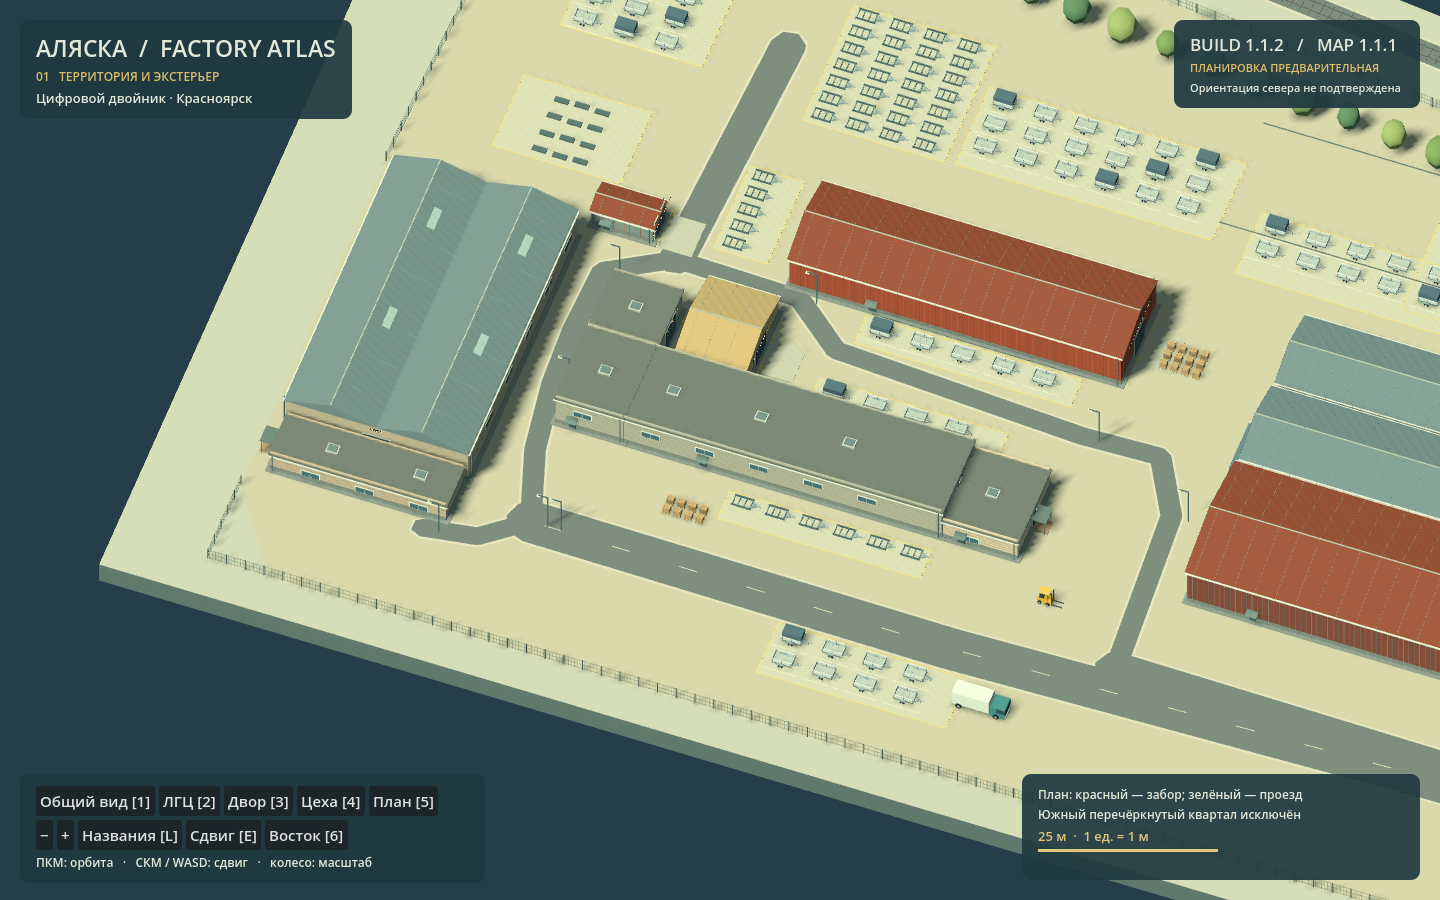
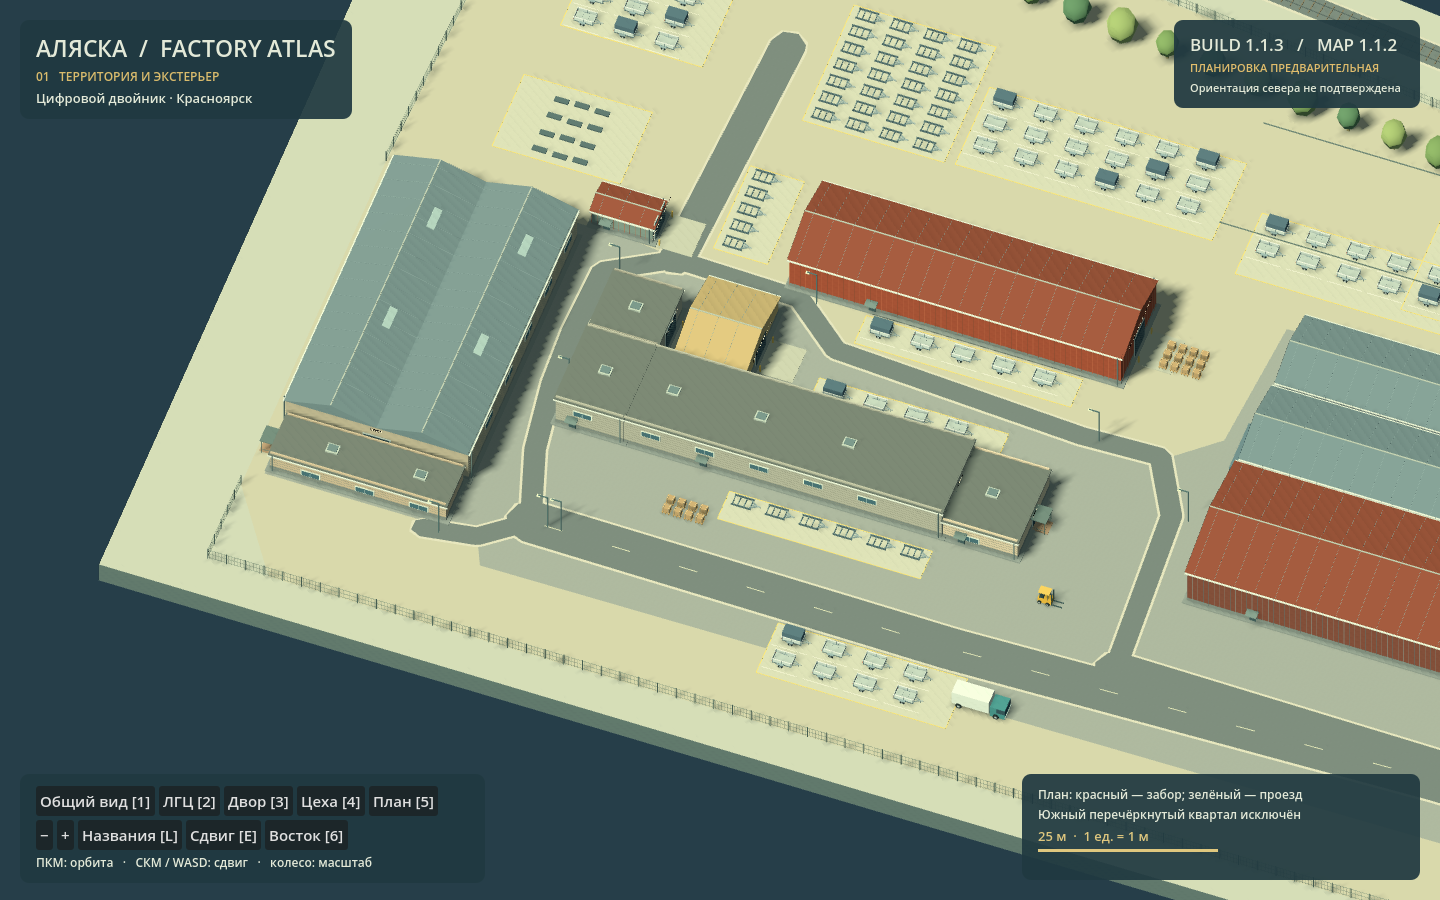
Compare historic satellite reference and model shared western yard surfacing

diff --git a/docs/MEASUREMENTS.md b/docs/MEASUREMENTS.md
@@ -1,4 +1,4 @@
-# MAP 1.1.1 — привязка и достоверность
+# MAP 1.1.2 — привязка и достоверность
 
 Одна единица Godot = один метр. Ваша последняя разметка имеет приоритет над прежней приблизительной расстановкой: **красное — ограждения; зелёное — дороги; стрелки — указания на объекты, не геометрия; перечёркнутый южный квартал не моделируется**.
 
@@ -50,3 +50,9 @@
 Углы стен и высоты; точное устройство кровель/фасадов чёрного цеха и обоих основных цехов; ширины и радиусы проездов; места ворот; параметры обоих кранов и путей; назначение малых восточных корпусов; фактические складские зоны и номенклатура западной площадки; истинный север. Все эти неизвестные остаются оценочными, а не выданы за измеренные значения. Интерьеров нет.
 
 Складские зоны имеют оценочные границы и отдельные source/confidence. Площадка рам, очередь пескоструя и клиентская выдача отодвинуты от дорожного полотна. Контейнерный ряд смещён к западной стороне своего двора, вне шестиметрового коридора рельсового крана. Количество показанных единиц иллюстративное, а не фактический складской остаток.
+
+## Дополнительный исторический спутниковый снимок
+
+Получен 27.10.2026 как изображение в чате; дата съёмки неизвестна, владелец предупредил, что снимок старый. Подтверждает взаимное расположение длинного левого корпуса с офисом 1, поперечного корпуса сборки 2, северной тентовой пристройки и ЛГЦ справа сверху. Кровли и тени не дают новых достоверных метровых размеров или высот: нет масштаба, геопривязки и разрешения для уверенного подсчёта пролётов.
+
+По снимку добавлено общее серое покрытие западного двора вокруг существующих цехов (`surfaces`). Оно находится под проездами и не меняет их центровые линии. Контур покрытия оценочно перенесён на действующую карту по общим зданиям; асфальт это, бетон или местами уплотнённый щебень, по данному изображению не утверждается. Современные материалы, положение нового цеха и отмеченные владельцем ограждения имеют приоритет над историческим состоянием. Машины, прицепы, контейнеры и их количество с этого снимка не копируются как актуальный складской учёт.

diff --git a/docs/SOURCE_REVIEW.md b/docs/SOURCE_REVIEW.md
@@ -34,3 +34,7 @@ The package provides map screenshots, not a georeferenced orthoimage or CAD surv
 ## Уточнение владельца для MAP 1.1.0
 
 Следующее сообщение содержит старый игровой вид и новую разметку 2ГИС. Владелец прямо разъяснил: красные линии — заборы; зелёные — дороги; стрелки требуют обратить внимание; южный перечёркнутый квартал не рисовать. Эти сведения заменяют прежние предположения. Численная ручная трассировка новой разметки (поле `trace`, полилинии, координаты и развороты) сохранена в `data/site.json`. Сам новый PNG доступен в сообщении пользователя; копия его файла в репозитории не заявляется, поскольку вложение пришло как изображение чата без файлового идентификатора. Все 18 оригинальных PNG из ZIP по-прежнему сохранены.
+
+## Исторический спутниковый кадр, полученный 27.10.2026
+
+Отдельное небольшое изображение в чате: офис 1 подписан у южного торца левого вытянутого корпуса, сборка 2 — на поперечном корпусе, «тент» — у северной пристройки, ЛГЦ — справа сверху. Дата съёмки неизвестна. Новое наблюдение — широкий общий серый двор, а не исключительно отдельные полосы проездов на грунте. Разрешение/тени не позволяют достоверно определить число скатов, высоты и размеры пристроек. Подпись на левом корпусе не переписывалась в модель при неоднозначном чтении. Бинарный файл этого кадра в checkout не поступил; сохранены описание и границы применимости, а не выдуманная копия фотографии.

diff --git a/docs/ACCEPTANCE.md b/docs/ACCEPTANCE.md
@@ -1,6 +1,8 @@
-# BUILD 1.1.2 / MAP 1.1.1 — проверка исправленной планировки
+# BUILD 1.1.3 / MAP 1.1.2 — проверка исправленной планировки
 
 ## Что исправлено относительно 1.0.0
+
+- Исторический спутниковый снимок использован для проверки сохранившейся планировки и общего покрытия двора. Добавлено оценочное серое покрытие перед сборкой 2 и у соседних корпусов; актуальная разметка проездов, ограждения и новый цех сохранены. Дата снимка и точный материал покрытия не выдуманы.
 
 - Складские зоны освобождены от пересечений с дорожным полотном; контейнеры стоят вне коридора рельсового крана. Это проверяется отдельно от контуров зданий.
 - Обработан смысл последней разметки владельца: красные линии — заборы; зелёные — проезды; стрелки не являются объектами сцены.

diff --git a/README.md b/README.md
@@ -1,6 +1,6 @@
 # Alaska Factory — exterior atlas
 
-Godot **4.4.1**, GL Compatibility, Web. **BUILD 1.1.2 / MAP 1.1.1**.
+Godot **4.4.1**, GL Compatibility, Web. **BUILD 1.1.3 / MAP 1.1.2**.
 One world unit = one metre. Exterior only. Map-derived anchors and provisional estimates are kept separate; this is not a surveyed digital twin.
 
 ## Develop
